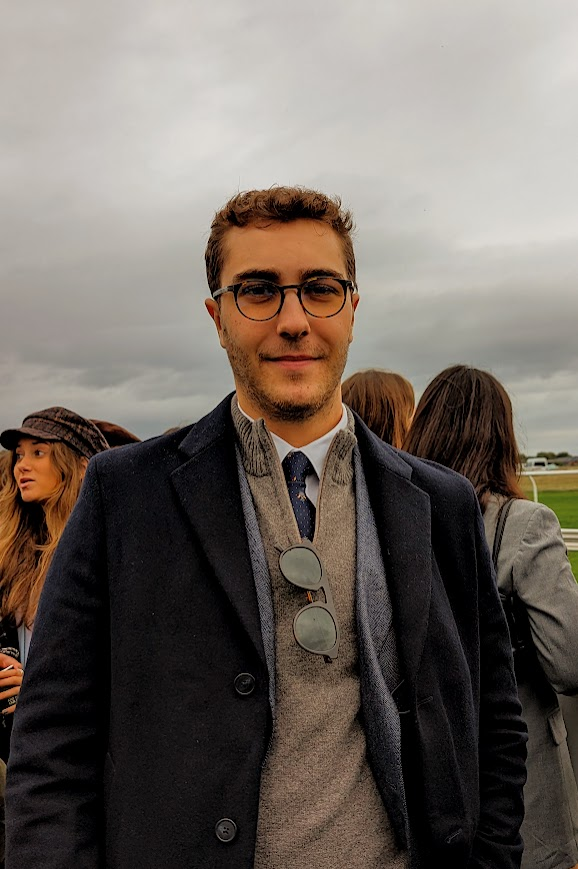
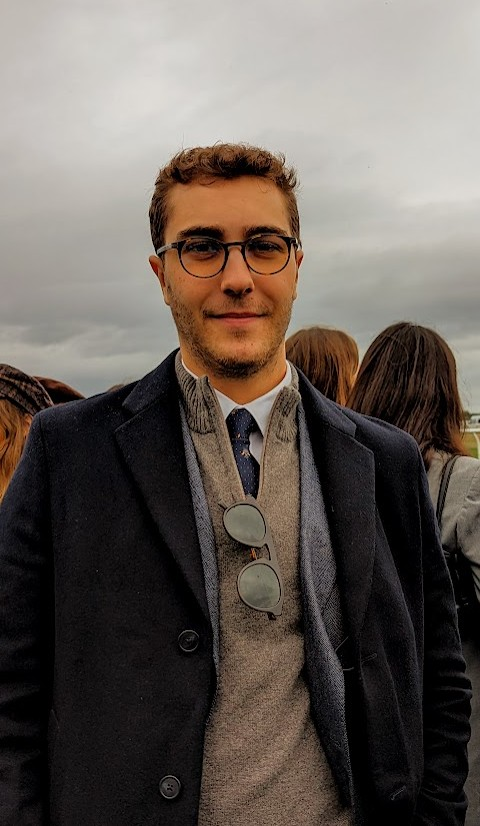
image crop

diff --git a/src/app/about/page.tsx b/src/app/about/page.tsx
@@ -502,7 +502,7 @@ export default function AboutPage() {
                     src="/images/portraint.jpg"
                     alt="Nicolás Carranza Portrait"
                     fill
-                    className="object-cover object-center"
+                    className="object-cover object-[center_20%]"
                     priority
                     quality={95}
                   />
